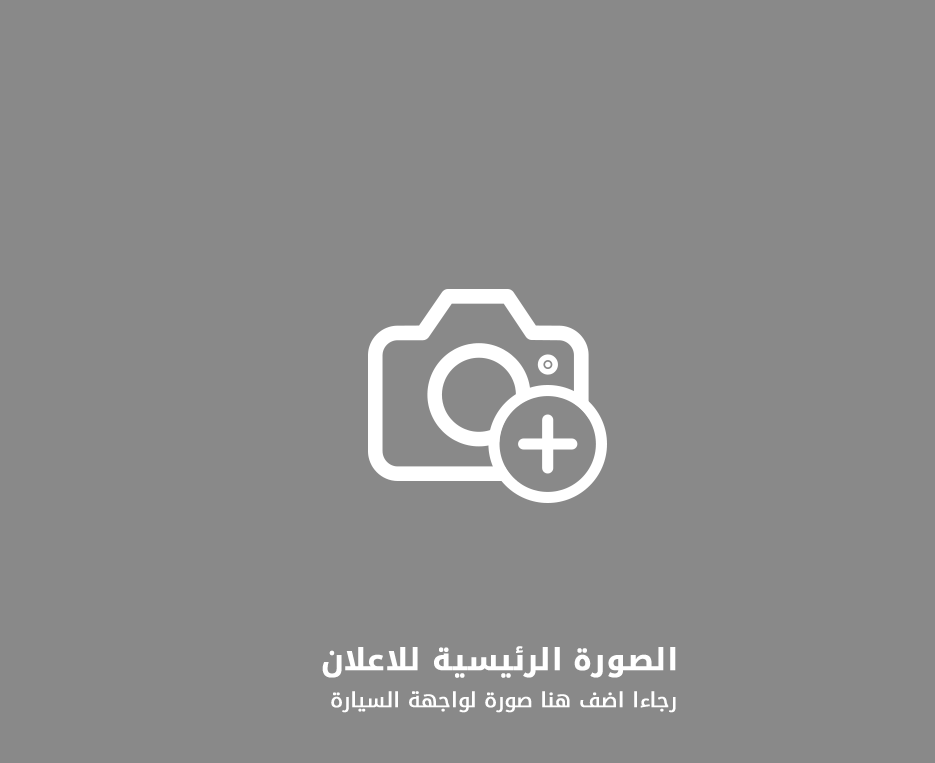
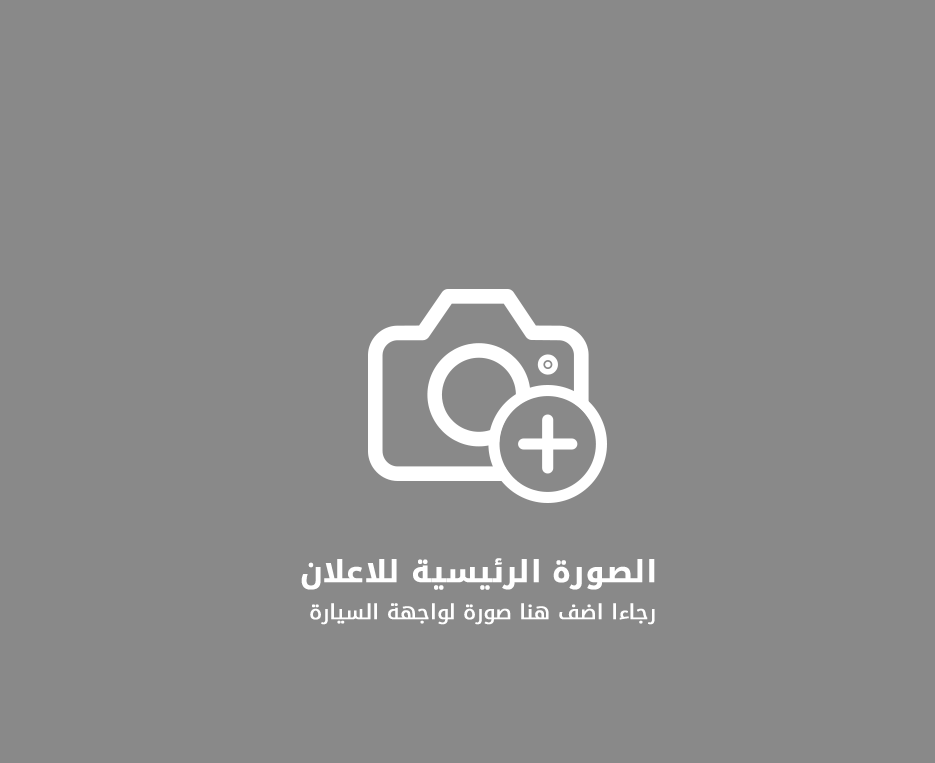
free ads page fixes

Changed region(s): [[0.3102, 0.7235, 0.7134, 0.8139], [0.3412, 0.844, 0.7444, 0.9345]]

diff --git a/App/template/hragkom/lib/css/style-Ads.css b/App/template/hragkom/lib/css/style-Ads.css
@@ -7,6 +7,7 @@ body {
   box-sizing: border-box;
 }
 
+
 /* my frameork */
 
 .inline {
@@ -696,11 +697,11 @@ body {
 }
 
 .information .half-info {
-  padding: 0;
+  padding-left: 0;
 }
 
 .information .half-info:first-of-type {
-  padding-left: 25px;
+  padding-left: 40px;
   float:left
 }
 
@@ -710,7 +711,7 @@ body {
   background-color: #555;
   color: #a6a5a5;
   border: none;
-  padding: 5px 10px;
+  padding: 10px 10px;
   font-size: 18px;
   margin: 8px 0;
   -moz-appearance: none;
@@ -820,7 +821,8 @@ body {
   margin-top: 30px;
   margin-bottom: 5px;
   padding: 9px 0;
-  font-family: 'DroidKufiBold'
+  font-family: 'DroidKufiBold';
+  width:100%
 }
 
 .publish .btn1 {

diff --git a/App/template/hragkom/cars/mycars/addfreeads.php b/App/template/hragkom/cars/mycars/addfreeads.php
@@ -79,7 +79,7 @@
     </div>
 
   <!-- Information -->
-<span>
+<div class="container">
   <section class="information" id="boat" dir="<?php echo $_dir; ?>">
     <div class="container">
       <h2><?=_Maininformation?></h2>
@@ -545,7 +545,7 @@
       <textarea class="col-lg-12" maxlength="150">معلومات إضافية(150 حرف)</textarea>
     </div>
   </section>-->
-</span>
+</div>
   <!-- Publish -->
 
   <section class="publish" dir="<?php echo $_dir; ?>">
